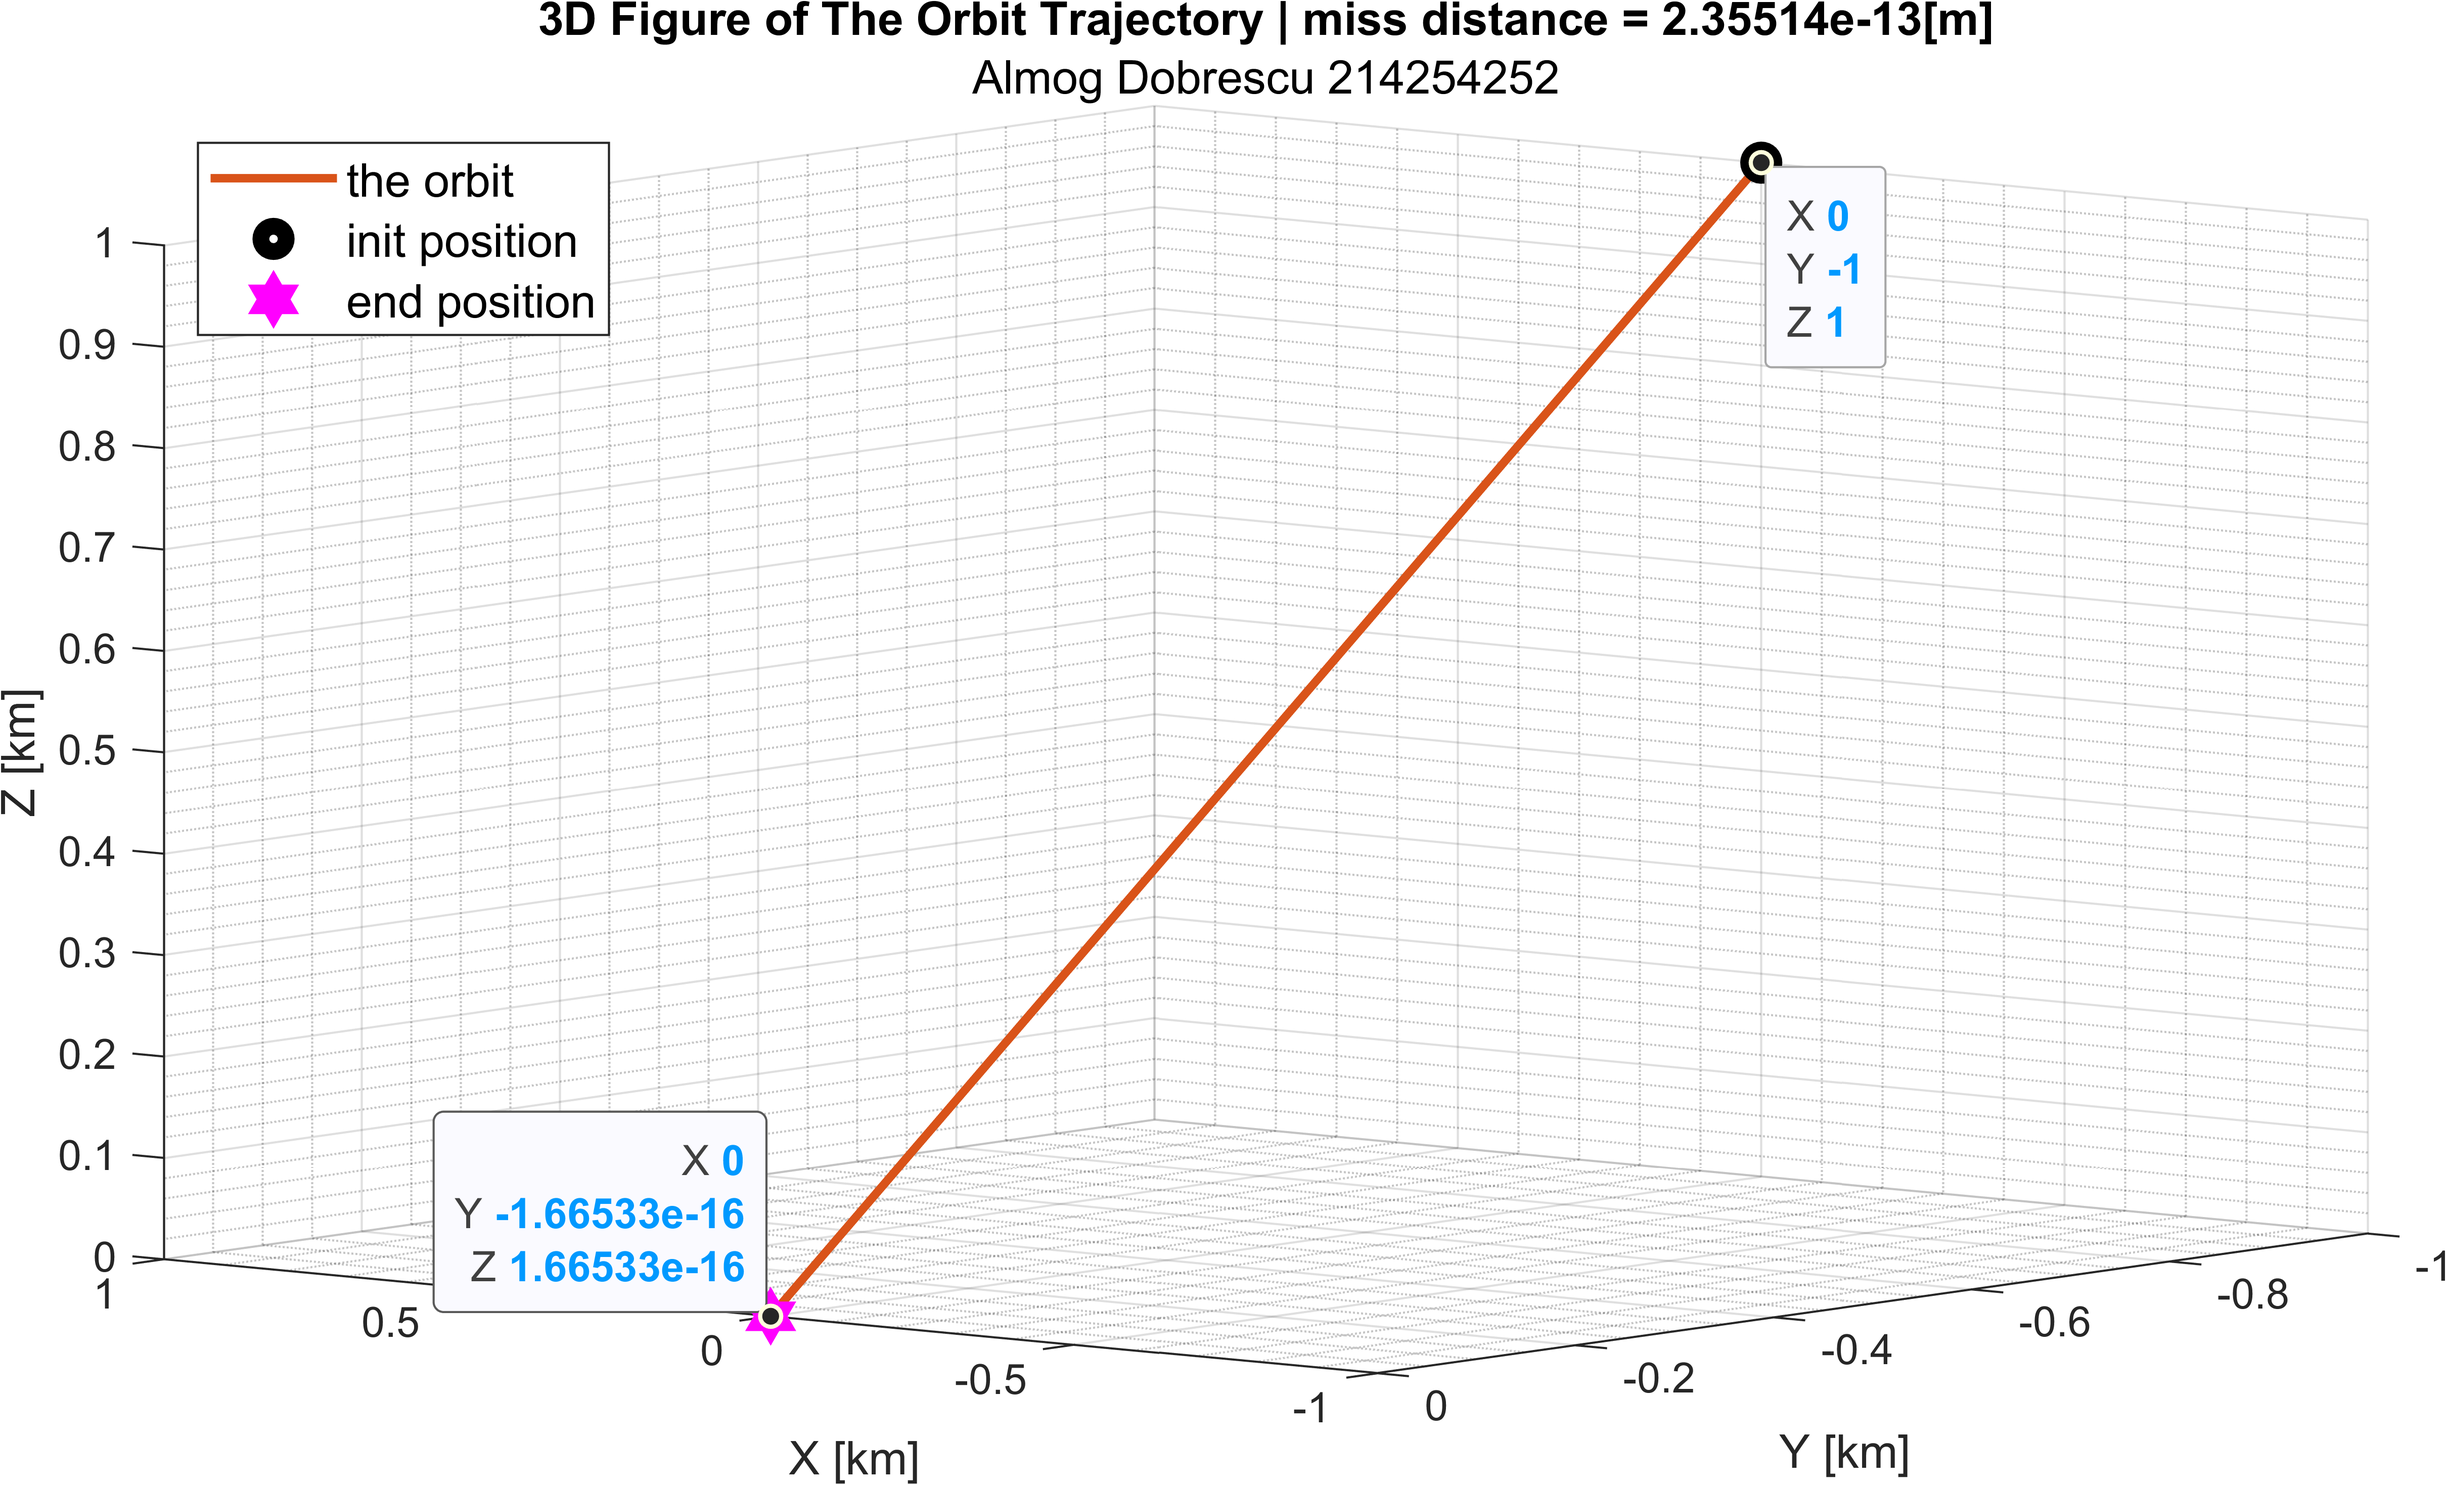
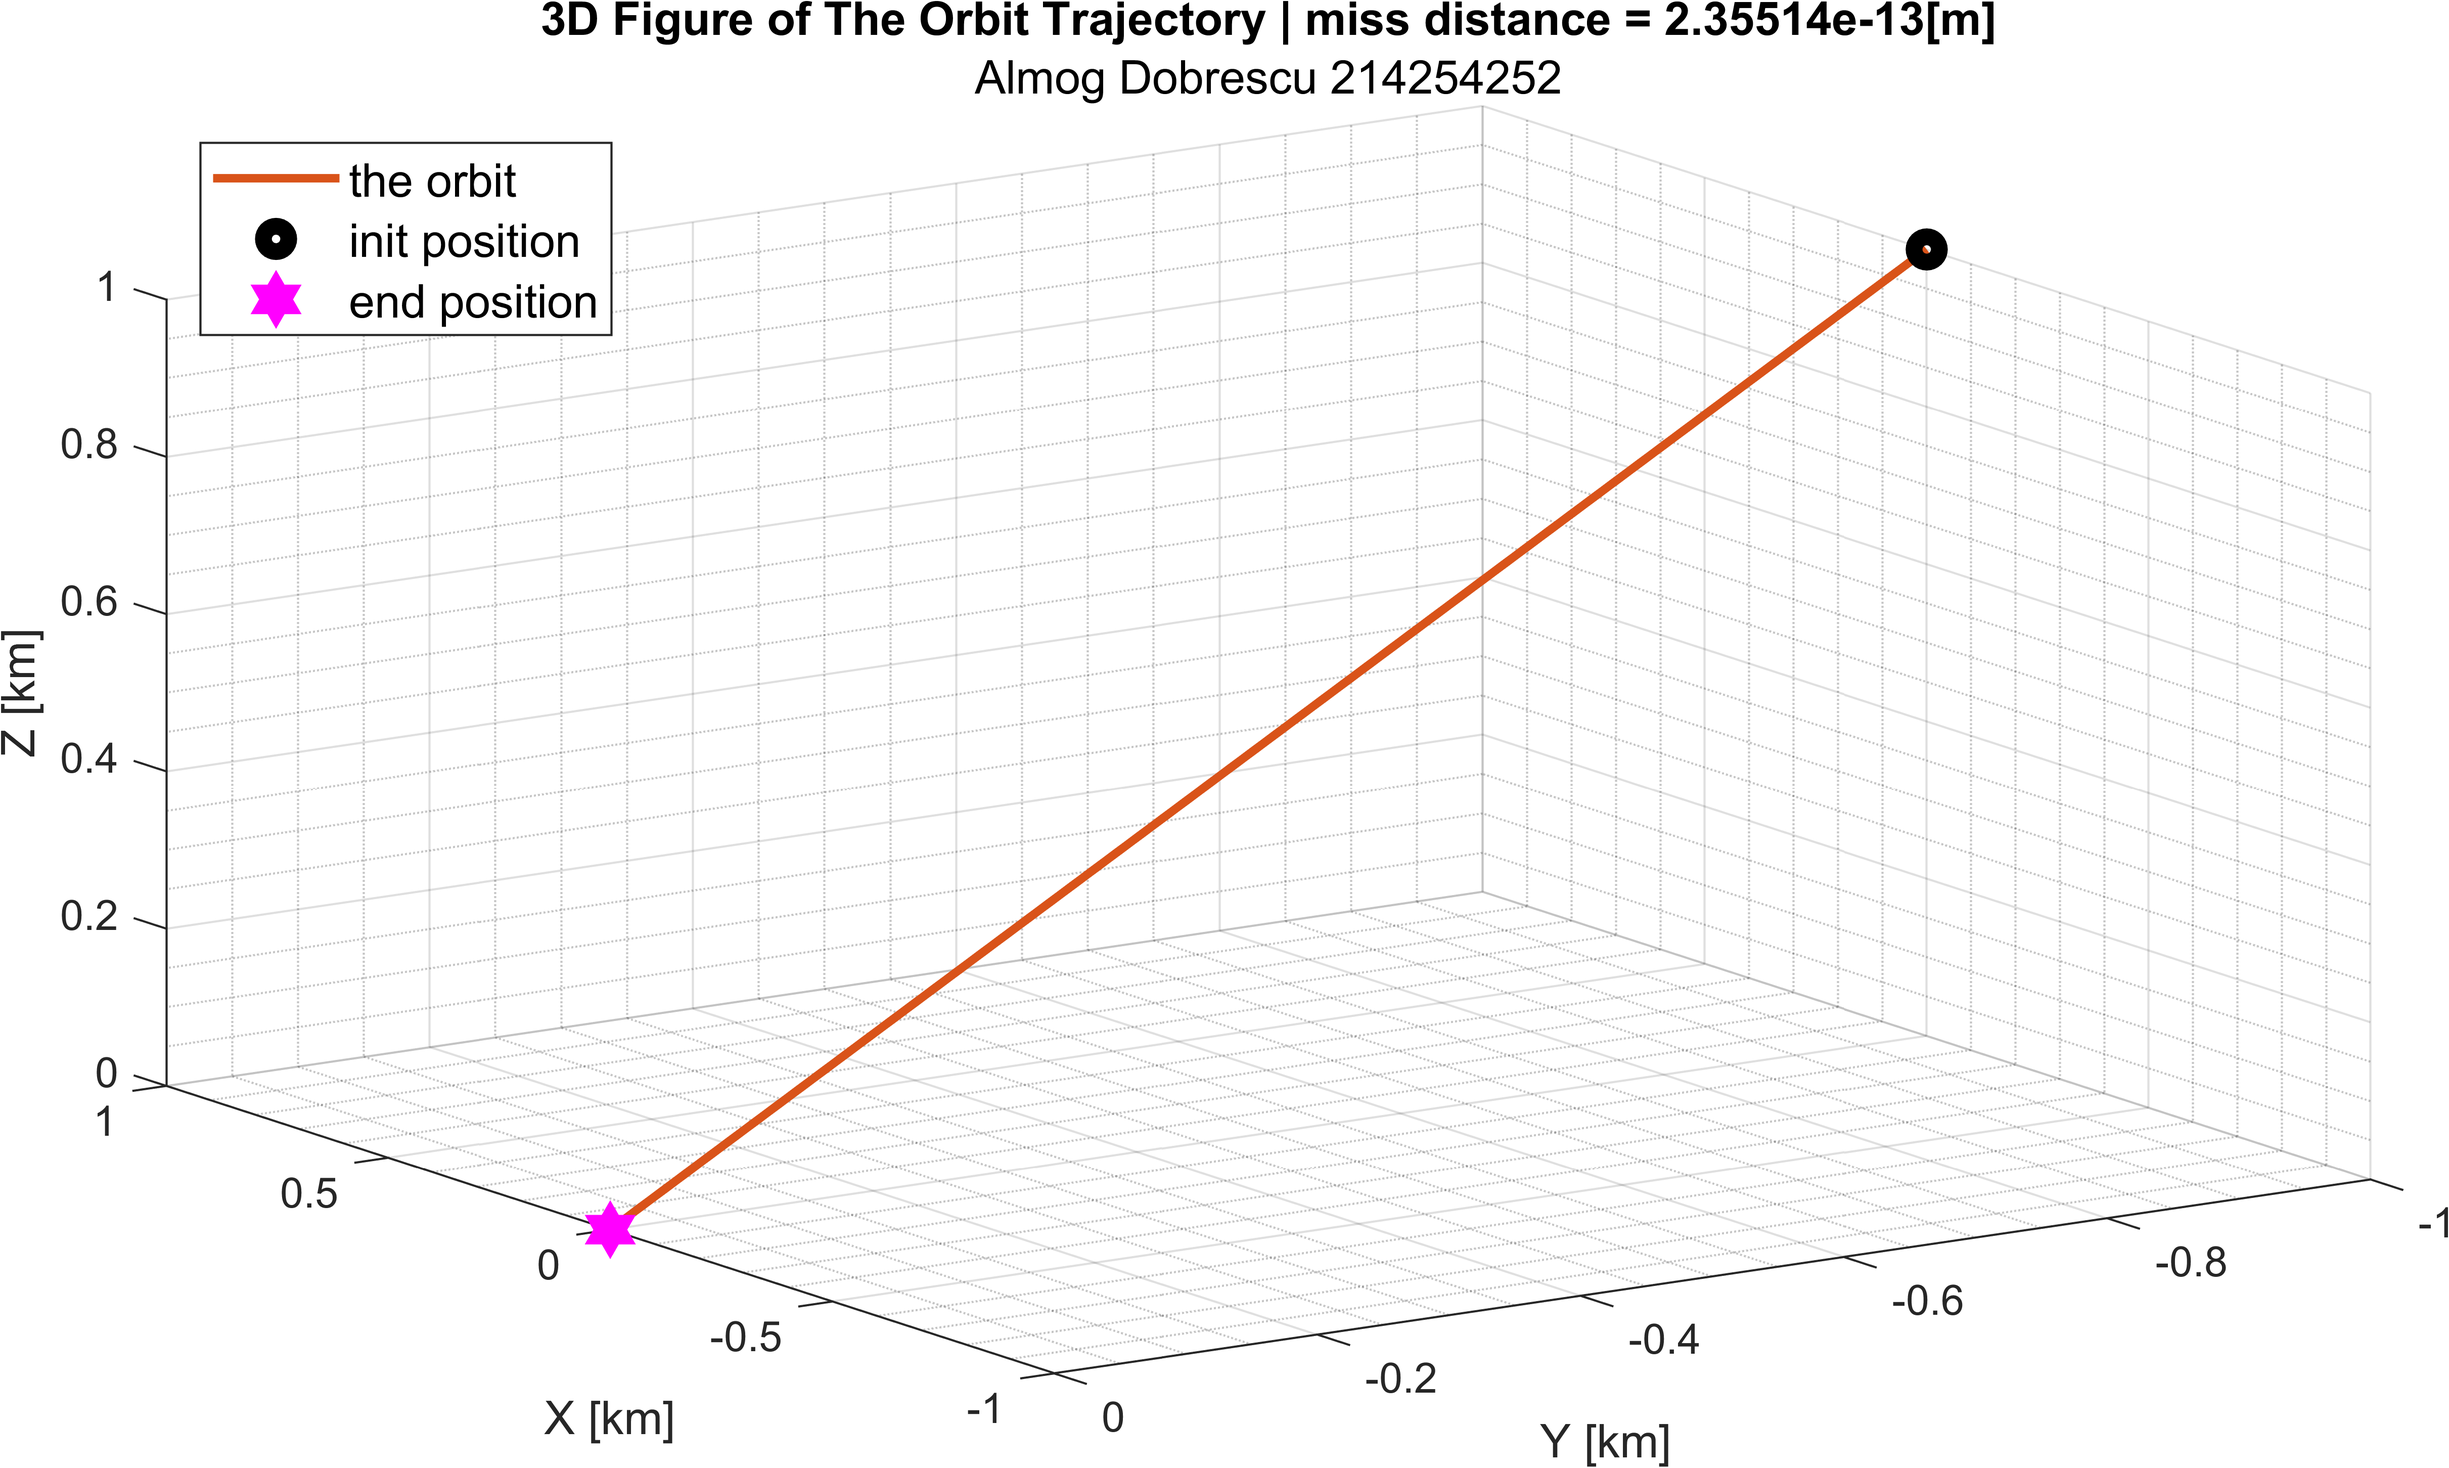
adding the matlab files for HW3

diff --git a/HW3/matlab/SOC_hw3.m b/HW3/matlab/SOC_hw3.m
@@ -18,11 +18,11 @@ state = [pos0_vec(1);v0_req_vec(1);pos0_vec(2);v0_req_vec(2);pos0_vec(3);v0_req_
 time_interval = [0, t_f];
 
  % This is where we integrate the equations of motion.
-[t_out, state_out] = ode45(@Satellite, time_interval, state, odeset('RelTol',1e-10,'AbsTol',1e-10));
+[t_out, state_out] = ode45(@satellite_caseA, time_interval, state, odeset('RelTol',1e-10,'AbsTol',1e-10));
 
 miss_distance = norm([state_out(end,1),state_out(end,3),state_out(end,5)]);
 miss_velocity = norm([state_out(end,2),state_out(end,4),state_out(end,6)]);
-%%
+
 fig1 = figure ("Name","3D Figure of The Orbit Trajectory",'Position',[100 300 900 500]);
 hold all
 
@@ -76,7 +76,7 @@ title("Thrust Acceleration Components and Total Thrust Acceleration Over Time")
 subtitle("Almog Dobrescu 214254252")
 legend({'f_x', 'f_y', 'f_z', 'f_t_o_t', 'f_l_i_m_i_t'},'FontSize',11 ,'Location','northeast')
 % exportgraphics(fig3, 'graph3.png','Resolution',600);
-%%
+
 fig4 = figure ("Name","Total delta v Over Time",'Position',[700 300 900 500]);
 f = [-2*n*0.5e-3*ones(length(t_out),1), zeros(length(t_out),1), n^2.*state_out(:,5)];
 delta_v = [];
@@ -95,4 +95,115 @@ title("Total $\Delta v$ Over Time","Interpreter","latex")
 subtitle("Almog Dobrescu 214254252")
 % legend({''},'FontSize',11 ,'Location','northeast')
 % exportgraphics(fig4, 'graph4.png','Resolution',600);
+
+
+%% B
+clc; clear;
+
+global_variabels
+
+state = [pos0_vec(1);v0_vec(1);pos0_vec(2);v0_vec(2);pos0_vec(3);v0_vec(3)];
+time_interval = [0, t_f-1e-2];
+
+ % This is where we integrate the equations of motion.
+[t_out, state_out] = ode45(@satellite_caseB, time_interval, state, odeset('RelTol',1e-5,'AbsTol',1e-5));
+
+miss_distance = norm([state_out(end,1),state_out(end,3),state_out(end,5)]);
+miss_velocity = norm([state_out(end,2),state_out(end,4),state_out(end,6)]);
+%%
+fig5 = figure ("Name","3D Figure of The Orbit Trajectory",'Position',[100 150 900 500]);
+hold all
+
+plot3(state_out(:,1),state_out(:,3),state_out(:,5), "LineWidth", 2, "Color", "#D95319")
+plot3(state_out(1,1),state_out(1,3),state_out(1,5), "o", "LineWidth", 4, "Color", "k")
+plot3(state_out(end,1),state_out(end,3),state_out(end,5),'hexagram', "LineWidth", 4, "Color", "m")
+
+xlabel('X [km]')
+ylabel('Y [km]')
+zlabel('Z [km]')
+grid on
+grid minor
+title(sprintf("3D Figure of The Orbit Trajectory | miss distance = %g[m] | miss velocity = %g[m/sec]", miss_distance*10^3, miss_velocity*10^3))
+subtitle("Almog Dobrescu 214254252")
+legend({'the orbit', 'init position', 'end position'},'FontSize',11 ,'Location','northwest')
+% exportgraphics(fig5, 'graph5.png','Resolution',600);
+%%
+fig6 = figure ("Name","2D Figure of The Orbit Trajectory Over Time",'Position',[300 150 900 500]);
+hold all
+
+plot(t_out, state_out(:,1), "LineWidth", 2)
+plot(t_out, state_out(:,3), "LineWidth", 2)
+plot(t_out, state_out(:,5), "LineWidth", 2)
+
+xlabel('Time [sec]')
+ylabel('Position [km]')
+grid on
+grid minor
+title("2D Figure of The Orbit Trajectory Over Time")
+subtitle("Almog Dobrescu 214254252")
+legend({'x', 'y', 'z'},'FontSize',11 ,'Location','northeast')
+% exportgraphics(fig6, 'graph6.png','Resolution',600);
+%%
+fig7 = figure ("Name","Thrust Acceleration Components and Total Thrust Acceleration Over Time",'Position',[500 150 900 500]);
+colors = cool(4);
+fs = zeros(length(t_out),3);
+for i = 1:length(t_out)
+    t_out(i)
+    tau = t_f - t_out(i);
+    pos_vec = [state_out(i,1);state_out(i,3);state_out(i,5)];
+    v_vec   = [state_out(i,2);state_out(i,4);state_out(i,6)];
+    vg = double(subs(C_star)*pos_vec - v_vec);
+
+    if norm(vg) < 1e-8
+        vg = zeros(3,1);
+    end
+    
+    p = double(-subs(C_star)*vg);
+    q = (accel_limit^2 - norm(p)^2 + (dot(p,vg/norm(vg)))^2)^0.5;
+    
+    f = p + (q - dot(p,vg/norm(vg)))*vg/norm(vg);
+    if norm(f)>accel_limit
+        fs(i,:) = f/norm(f)*accel_limit*0.9;
+    end
+
+
+end
+
+hold all
+
+plot(t_out, fs(:,1), "LineWidth", 2, "Color", colors(1,:))
+plot(t_out, fs(:,2), "LineWidth", 2, "Color", colors(2,:))
+plot(t_out, fs(:,3), "LineWidth", 2, "Color", colors(3,:))
+plot(t_out, sqrt(fs(:,1).^2+fs(:,2).^2+fs(:,3).^2), "LineWidth", 2, "Color", colors(4,:))
+plot(t_out, ones(length(t_out),1)*accel_limit,"--", "LineWidth", 2, "Color", "k")
+plot(t_out, -ones(length(t_out),1)*accel_limit,"--", "LineWidth", 2, "Color", "k")
+
+xlabel('Time [sec]','FontSize', 16, 'Interpreter','latex')
+ylabel('Acceleration $\left[\frac{km}{sec^2}\right]$','FontSize', 16, 'Interpreter','latex')
+grid on
+grid minor
+title("Thrust Acceleration Components and Total Thrust Acceleration Over Time")
+subtitle("Almog Dobrescu 214254252")
+legend({'f_x', 'f_y', 'f_z', 'f_t_o_t', 'f_l_i_m_i_t'},'FontSize',11 ,'Location','northeast')
+% exportgraphics(fig7, 'graph7.png','Resolution',600);
+%%
+fig8 = figure ("Name","Total delta v Over Time",'Position',[700 150 900 500]);
+
+delta_v = [];
+for i = 2:length(t_out)
+    delta_v(i) = trapz(t_out(1:i), sqrt(fs(1:i,1).^2+fs(1:i,2).^2+fs(1:i,3).^2));
+end
+hold all
+
+plot([t_out;t_out(end);t_out(end)], [delta_v, delta_v(end), delta_v(end)+norm(miss_velocity)], "LineWidth", 2, "Color", "k")
+
+xlabel('Time [sec]','FontSize', 16, 'Interpreter','latex')
+ylabel('$\Delta v\left[\frac{km}{sec}\right]$','FontSize', 16, 'Interpreter','latex')
+grid on
+grid minor
+title("Total $\Delta v$ Over Time","Interpreter","latex")
+subtitle("Almog Dobrescu 214254252")
+% legend({''},'FontSize',11 ,'Location','northeast')
+% exportgraphics(fig8, 'graph8.png','Resolution',600);
+
 

diff --git a/HW3/matlab/global_variabels.m b/HW3/matlab/global_variabels.m
@@ -4,8 +4,13 @@ T = 6e3; %[sec]
 e = 0;
 a = (mu*T^2/4/pi^2)^(1/3); %[km]
 n = sqrt(mu/a^3);
-t_f = 2000;
-accel_limit = 8e-6;
+t_f = 2000; %[sec]
+accel_limit = 8e-6; %[km/sec^2]
+
+pos0_vec = [0;-1;1]; %[km]
+v0_vec = [0;0;-0.74267*n]; %[km/sec]
+posf_vec = [0;0;0];
+vf_vec = [0;0;0];
 
 F = [0    , 1   , 0, 0  , 0   , 0;
      3*n^2, 0   , 0, 2*n, 0   , 0;
@@ -19,3 +24,25 @@ G = [0, 0, 0;
      0, 1, 0;
      0, 0, 0;
      0, 0, 1];
+
+syms tau
+phi = [4-3*cos(n*tau)      , 0, 0            , 1/n*sin(n*tau)    , 2/n*(1-cos(n*tau))        , 0             ;
+       6*(sin(n*tau)-n*tau), 1, 0            , 2/n*(cos(n*tau)-1), 1/n*(4*sin(n*tau)-3*n*tau), 0             ;
+       0                   , 0, cos(n*tau)   , 0                 , 0                         , 1/n*sin(n*tau);
+       3*n*sin(n*tau)      , 0, 0            , cos(n*tau)        , 2*sin(n*tau)              , 0             ;
+       6*n*(cos(n*tau)-1)  , 0, 0            , -2*sin(n*tau)     , 4*cos(n*tau)-3            , 0             ;
+       0                   , 0, -n*sin(n*tau), 0                 , 0                         , cos(n*tau)    ];
+phi_11 = [phi(1,1), phi(1,2), phi(1,3);
+          phi(2,1), phi(2,2), phi(2,3);
+          phi(3,1), phi(3,2), phi(3,3)];
+phi_12 = [phi(1,4), phi(1,5), phi(1,6);
+          phi(2,4), phi(2,5), phi(2,6);
+          phi(3,4), phi(3,5), phi(3,6)];
+phi_21 = [phi(4,1), phi(4,2), phi(4,3);
+          phi(5,1), phi(5,2), phi(5,3);
+          phi(6,1), phi(6,2), phi(6,3)];
+phi_22 = [phi(4,4), phi(4,5), phi(4,6);
+          phi(5,4), phi(5,5), phi(5,6);
+          phi(6,4), phi(6,5), phi(6,6)];
+
+C_star = -inv(phi_12)*phi_11;

diff --git a/HW3/matlab/satellite_caseB.m b/HW3/matlab/satellite_caseB.m
@@ -1,0 +1,27 @@
+function d_state_dt = satellite_caseB(t, state)
+x_vec = state(1:6, 1);
+pos_vec = [state(1);state(3);state(5)];
+v_vec = [state(2);state(4);state(6)];
+
+global_variabels
+t
+tau = t_f - t;
+vg = double(subs(C_star)*pos_vec - v_vec);
+
+if norm(vg) < 1e-8
+    vg = zeros(3,1);
+end
+
+p = double(-subs(C_star)*vg);
+q = (accel_limit^2 - norm(p)^2 + (dot(p,vg/norm(vg)))^2)^0.5;
+
+f = p + (q - dot(p,vg/norm(vg)))*vg/norm(vg);
+if norm(f)>accel_limit
+    f = f/norm(f)*accel_limit*0.9;
+end
+
+
+d_x_dt  = F*x_vec + G*f;
+
+d_state_dt = [d_x_dt];
+

diff --git a/HW3/matlab/satellite_caseA.m b/HW3/matlab/satellite_caseA.m
@@ -1,0 +1,13 @@
+function d_state_dt = satellite_caseA(t, state)
+x_vec = state(1:6, :);
+
+global_variabels
+
+f = [-2*n*0.5e-3;
+          0     ;
+     n^2*x_vec(5)];
+
+d_x_dt  = F*x_vec + G*f;
+
+d_state_dt = [d_x_dt];
+
